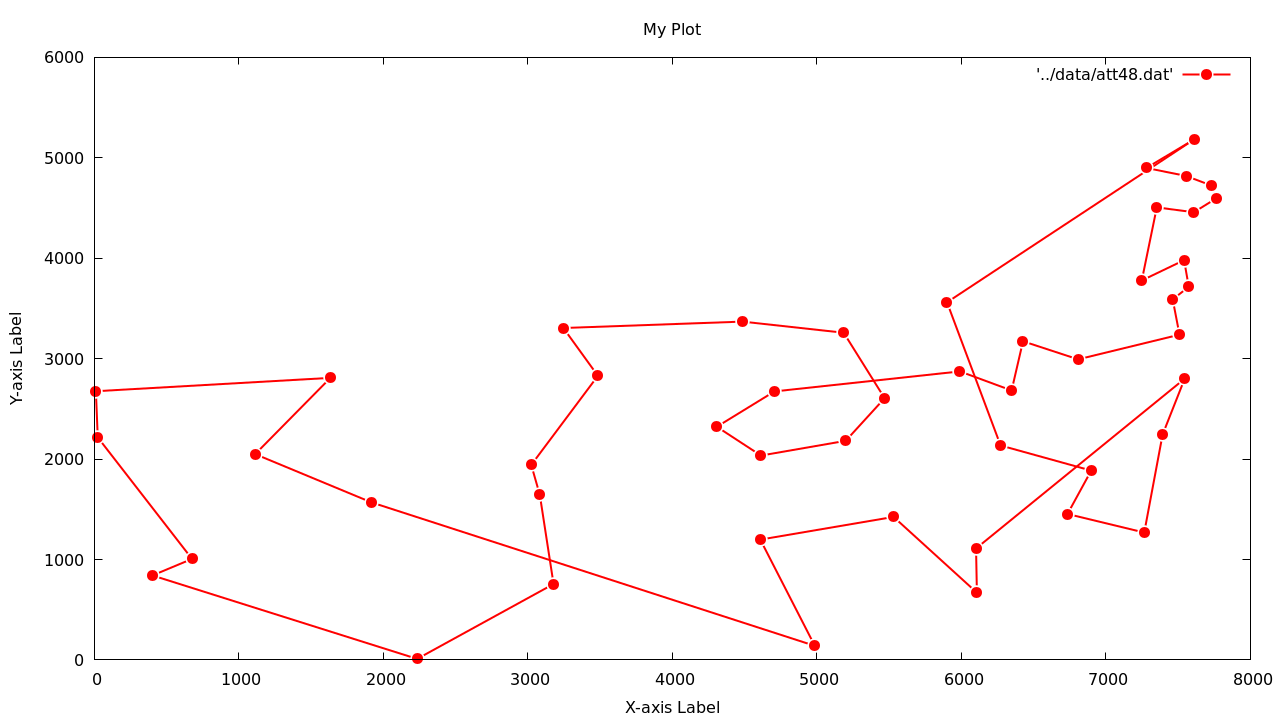
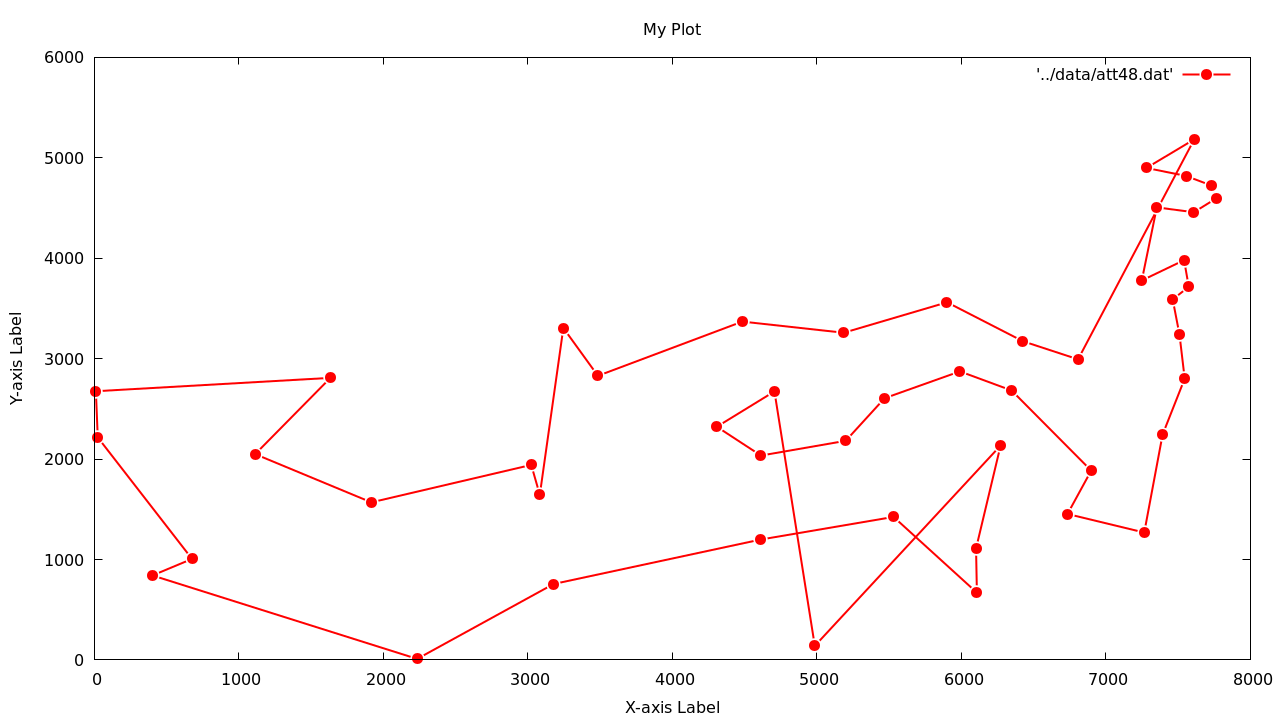
implement grasp

diff --git a/src/heuristics.c b/src/heuristics.c
@@ -184,6 +184,106 @@ void extra_mileage(instance* inst) {
     printf("Extra Mileage heuristic z = %f\n", z);
 }
 
-void grasp(instance* inst, int start_node) {
+double grasp(instance* inst, int start_node, double p) {
+    //check start node validity
+    if(start_node < 0 || start_node >= inst->nnodes)
+        print_error("Invalid start node");
 
+    //TODO track execution time
+
+    //set probability
+    double p1 = p;
+    double p2 = 1 - p1;
+    
+    compute_distances(inst);
+
+    int* solution = (int* ) calloc(inst->nnodes, sizeof(int));
+
+    //initialize all the cell to -1
+    for(int i=0; i<inst->nnodes; ++i)
+        solution[i] = -1;
+
+    //solution objective value z
+    double z = 0;
+
+    //current node
+    int curr_node = start_node;
+    //current length of visited nodes
+    int len = 0;
+
+    //loop for the algorithm
+    while(len < inst->nnodes-1) {
+        //successor nodes
+        int succ_first = -1;
+        double first_cost =__DBL_MAX__;
+        int succ_second = -1;
+        double second_cost = __DBL_MAX__;
+
+        //search the next node
+        for(int i=0; i<inst->nnodes; ++i) {
+            //check nodes not visited yet
+            if(curr_node == i || solution[i] != -1)
+                continue;
+            
+            double cost = get_cost(curr_node, i, inst);
+            if(cost < first_cost) {
+                succ_second = succ_first;
+                second_cost = first_cost;
+                succ_first = i;
+                first_cost = cost;
+            }
+        }
+
+        //get random probability
+        double prob = (double) rand() / RAND_MAX;
+
+        //set successor node, update current node and objective
+        if(prob > p2 || succ_second == -1) {
+            solution[curr_node] = succ_first;
+            curr_node = succ_first;
+            z += first_cost;
+        }
+        else {
+            solution[curr_node] = succ_second;
+            curr_node = succ_second;
+            z += second_cost;
+        }
+
+        //update len
+        len++;
+    }
+
+    //set successor of last node visited
+    solution[curr_node] = start_node;
+
+    //check solution validity
+    check_solution(solution, inst->nnodes);
+
+    //update objective value
+    z += get_cost(start_node, curr_node, inst);
+
+    //update model solution
+    update_solution(z, solution, inst);
+
+    printf("Start node [%d] with p1 [%f] - Solution value: %f\n", start_node, p, z);
+    
+    return z;
+}
+
+void grasp_iterative(instance* inst) {
+    //TODO track execution time
+    int best_node = 0;
+    double best_cost = __DBL_MAX__;
+    double p = 0.8;
+
+    for(int i=0; i<inst->nnodes; ++i) {
+        //p = (double) rand() / RAND_MAX;
+        double cost = grasp(inst, i, p);
+        if(cost < best_cost) {
+            best_node = i;
+            best_cost = cost;
+        }
+    }
+
+    printf("Grasp heuristic - Best starting node = [%d] with p1 = [%f] - Cost = [%f]\n", best_node, p, best_cost);
 }

diff --git a/include/heuristics.h b/include/heuristics.h
@@ -33,5 +33,14 @@ void extra_mileage(instance* inst);
  * 
  * @param inst model instance
  * @param start_node index of the starting node
+ * @param p probability of selecting first best node
+ * @return objective value
 */
-void grasp(instance* inst, int start_node);
+double grasp(instance* inst, int start_node, double p);
+
+/**
+ * Grasp heuristic performed on every node
+ * 
+ * @param inst model instance
+*/
+void grasp_iterative(instance* inst);

diff --git a/src/main.c b/src/main.c
@@ -23,9 +23,11 @@ int main(int argc, char** argv) {
 
     //execute algorithm
     //greedy(&inst, 0);
-    greedy_iterative(&inst);
+    //greedy_iterative(&inst);
 
     //extra_mileage(&inst);
+    
+    grasp_iterative(&inst);
 
     //plot tsp instance
     plot_solution(&inst);
